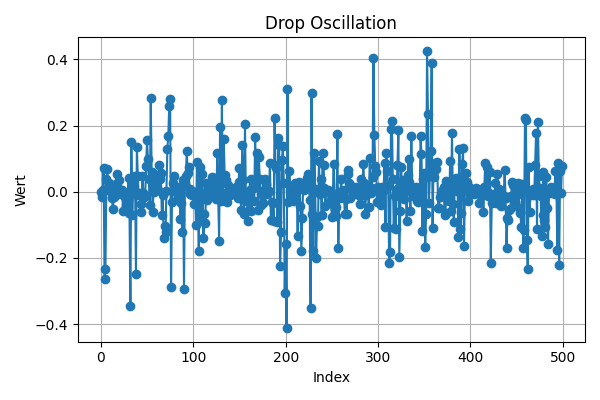
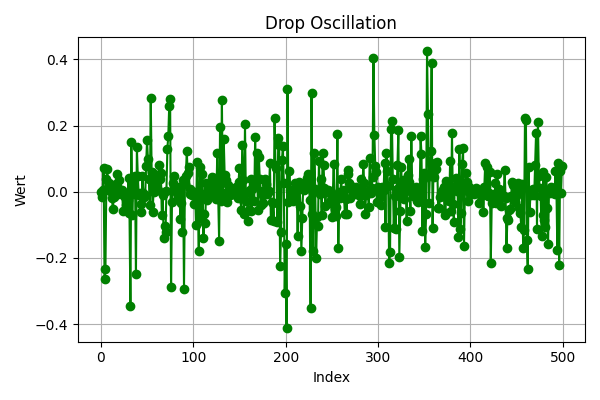
Update drop oscillation visualization: change sample step to 5, adjust plot color to green, and enhance README.md description

Changed region(s): [[0.15, 0.12, 0.96, 0.84]]

diff --git a/visualisierung/visualisierung.py b/visualisierung/visualisierung.py
@@ -41,7 +41,7 @@ os.makedirs(png_dir, exist_ok=True)
 png_path = os.path.join(png_dir, 'drop_oscillation.png')
 
 plt.figure(figsize=(6, 4))
-plt.plot(range(len(drop_values)), drop_values, marker='o', linestyle='-')
+plt.plot(range(len(drop_values)), drop_values, marker='o', linestyle='-', color='green')
 plt.title("Drop Oscillation")
 plt.xlabel("Index")
 plt.ylabel("Wert")
@@ -52,7 +52,7 @@ plt.close()
 print(f"PNG-Datei gespeichert: {png_path}")
 
 # 9. QuickChart-URL zusammenbauen (sampling, um URL-Länge zu begrenzen)
-sample_step = 1
+sample_step = 5
 qc_labels = list(range(0, len(drop_values), sample_step))
 qc_data = drop_values[::sample_step]
 
@@ -100,7 +100,7 @@ md_lines = [
     "_Topic: iot1/teaching_factory/drop_oscillation_\n\n",
     "## Lokale PNG-Datei\n\n",
     f"![Drop Oscillation PNG](https://github.com/oubi-aed/AUT_IOT/blob/main/reports/plots/drop_oscillation.png)\n\n",
-    "## QuickChart-Embed (statische Grafik von quickchart.io)\n\n",
+    "## QuickChart-Embed (statische Grafik von quickchart.io mit Sample Step = 5)\n\n",
     f"![Drop Oscillation QuickChart]({quickchart_url})\n"
 ]
 

diff --git a/README.md b/README.md
@@ -6,6 +6,6 @@ _Topic: iot1/teaching_factory/drop_oscillation_
 
 ![Drop Oscillation PNG](https://github.com/oubi-aed/AUT_IOT/blob/main/reports/plots/drop_oscillation.png)
 
-## QuickChart-Embed (statische Grafik von quickchart.io)
+## QuickChart-Embed (statische Grafik von quickchart.io mit Sample Step = 5)
 
-![Drop Oscillation QuickChart](https://quickchart.io/chart?c=%7B%22type%22%3A%22line%22%2C%22data%22%3A%7B%22labels%22%3A%5B0%2C1%2C2%2C3%2C4%2C5%2C6%2C7%2C8%2C9%2C10%2C11%2C12%2C13%2C14%2C15%2C16%2C17%2C18%2C19%2C20%2C21%2C22%2C23%2C24%2C25%2C26%2C27%2C28%2C29%2C30%2C31%2C32%2C33%2C34%2C35%2C36%2C37%2C38%2C39%2C40%2C41%2C42%2C43%2C44%2C45%2C46%2C47%2C48%2C49%2C50%2C51%2C52%2C53%2C54%2C55%2C56%2C57%2C58%2C59%2C60%2C61%2C62%2C63%2C64%2C65%2C66%2C67%2C68%2C69%2C70%2C71%2C72%2C73%2C74%2C75%2C76%2C77%2C78%2C79%2C80%2C81%2C82%2C83%2C84%2C85%2C86%2C87%2C88%2C89%2C90%2C91%2C92%2C93%2C94%2C95%2C96%2C97%2C98%2C99%2C100%2C101%2C102%2C103%2C104%2C105%2C106%2C107%2C108%2C109%2C110%2C111%2C112%2C113%2C114%2C115%2C116%2C117%2C118%2C119%2C120%2C121%2C122%2C123%2C124%2C125%2C126%2C127%2C128%2C129%2C130%2C131%2C132%2C133%2C134%2C135%2C136%2C137%2C138%2C139%2C140%2C141%2C142%2C143%2C144%2C145%2C146%2C147%2C148%2C149%2C150%2C151%2C152%2C153%2C154%2C155%2C156%2C157%2C158%2C159%2C160%2C161%2C162%2C163%2C164%2C165%2C166%2C167%2C168%2C169%2C170%2C171%2C172%2C173%2C174%2C175%2C176%2C177%2C178%2C179%2C180%2C181%2C182%2C183%2C184%2C185%2C186%2C187%2C188%2C189%2C190%2C191%2C192%2C193%2C194%2C195%2C196%2C197%2C198%2C199%2C200%2C201%2C202%2C203%2C204%2C205%2C206%2C207%2C208%2C209%2C210%2C211%2C212%2C213%2C214%2C215%2C216%2C217%2C218%2C219%2C220%2C221%2C222%2C223%2C224%2C225%2C226%2C227%2C228%2C229%2C230%2C231%2C232%2C233%2C234%2C235%2C236%2C237%2C238%2C239%2C240%2C241%2C242%2C243%2C244%2C245%2C246%2C247%2C248%2C249%2C250%2C251%2C252%2C253%2C254%2C255%2C256%2C257%2C258%2C259%2C260%2C261%2C262%2C263%2C264%2C265%2C266%2C267%2C268%2C269%2C270%2C271%2C272%2C273%2C274%2C275%2C276%2C277%2C278%2C279%2C280%2C281%2C282%2C283%2C284%2C285%2C286%2C287%2C288%2C289%2C290%2C291%2C292%2C293%2C294%2C295%2C296%2C297%2C298%2C299%2C300%2C301%2C302%2C303%2C304%2C305%2C306%2C307%2C308%2C309%2C310%2C311%2C312%2C313%2C314%2C315%2C316%2C317%2C318%2C319%2C320%2C321%2C322%2C323%2C324%2C325%2C326%2C327%2C328%2C329%2C330%2C331%2C332%2C333%2C334%2C335%2C336%2C337%2C338%2C339%2C340%2C341%2C342%2C343%2C344%2C345%2C346%2C347%2C348%2C349%2C350%2C351%2C352%2C353%2C354%2C355%2C356%2C357%2C358%2C359%2C360%2C361%2C362%2C363%2C364%2C365%2C366%2C367%2C368%2C369%2C370%2C371%2C372%2C373%2C374%2C375%2C376%2C377%2C378%2C379%2C380%2C381%2C382%2C383%2C384%2C385%2C386%2C387%2C388%2C389%2C390%2C391%2C392%2C393%2C394%2C395%2C396%2C397%2C398%2C399%2C400%2C401%2C402%2C403%2C404%2C405%2C406%2C407%2C408%2C409%2C410%2C411%2C412%2C413%2C414%2C415%2C416%2C417%2C418%2C419%2C420%2C421%2C422%2C423%2C424%2C425%2C426%2C427%2C428%2C429%2C430%2C431%2C432%2C433%2C434%2C435%2C436%2C437%2C438%2C439%2C440%2C441%2C442%2C443%2C444%2C445%2C446%2C447%2C448%2C449%2C450%2C451%2C452%2C453%2C454%2C455%2C456%2C457%2C458%2C459%2C460%2C461%2C462%2C463%2C464%2C465%2C466%2C467%2C468%2C469%2C470%2C471%2C472%2C473%2C474%2C475%2C476%2C477%2C478%2C479%2C480%2C481%2C482%2C483%2C484%2C485%2C486%2C487%2C488%2C489%2C490%2C491%2C492%2C493%2C494%2C495%2C496%2C497%2C498%2C499%5D%2C%22datasets%22%3A%5B%7B%22label%22%3A%22Drop%20Oscillation%20%28Sampled%20every%2010th%29%22%2C%22data%22%3A%5B-0.0%2C-0.0155132089%2C0.0042205726%2C0.0725336019%2C-0.2644276961%2C-0.2331403242%2C0.0378564211%2C0.0683021036%2C0.0126182278%2C0.0252328983%2C0.0033464714%2C0.006271765%2C-0.019256085%2C-0.05345763%2C-0.0154634471%2C0.0212959918%2C0.0222878235%2C0.0549119862%2C0.0180486656%2C-0.0063707933%2C0.0349003702%2C0.0007394186%2C0.0005602404%2C0.006435499%2C-0.0574101363%2C-0.012444466%2C-0.0037044934%2C-0.0406035928%2C-0.040751769%2C-0.0261181108%2C0.0403105655%2C-0.0632508741%2C-0.3456982651%2C0.1505048999%2C-0.0702048673%2C0.0277953416%2C-0.0060229108%2C0.0489857509%2C-0.2496298763%2C0.134138124%2C0.0478556928%2C-0.0101247401%2C-0.0031224436%2C-0.0621877513%2C-0.0384129438%2C0.0468848496%2C-0.0033948776%2C-0.0156651455%2C-0.0098499052%2C0.0787904354%2C0.1559865141%2C0.0987733807%2C0.0385891126%2C-0.0403210196%2C0.2839362409%2C0.0598104567%2C-0.0596456303%2C-0.0008158692%2C0.0530552091%2C0.0024831962%2C0.0133962734%2C0.0346823968%2C0.0039278025%2C0.0797134226%2C0.0377744113%2C0.0552260642%2C-0.0697532443%2C-0.0095664302%2C-0.1394535925%2C-0.1028049948%2C-0.1220642589%2C0.0019033127%2C0.1294311807%2C0.1694706393%2C0.2598783128%2C0.2789382051%2C-0.2862931872%2C-0.032330945%2C0.0269652969%2C0.0485605402%2C0.0091650643%2C0.0018052535%2C-0.0045675358%2C-0.0171367339%2C-6.9791e-06%2C0.0154805082%2C-0.0834179912%2C-0.0343073995%2C-0.1227849104%2C0.0351078712%2C-0.293163869%2C0.0225592592%2C0.0485436244%2C0.1219993956%2C0.0571064052%2C0.0736877237%2C0.009777024%2C-0.0078986106%2C-0.0023901871%2C-0.0097508002%2C-0.0027575478%2C-0.037772156%2C0.0006719246%2C-0.1009126529%2C0.0900680994%2C-0.0358329735%2C-0.1775695623%2C0.0734265952%2C-0.0787528475%2C-0.00561162%2C0.0540271966%2C-0.1384322269%2C-0.0657242693%2C-0.0953656028%2C0.0266823741%2C-0.0263832294%2C0.0075300407%2C0.0165376774%2C0.0051592359%2C-0.0079989227%2C0.0442778041%2C0.0382862715%2C0.0407354678%2C0.0255494716%2C0.0002711148%2C-0.0222324657%2C0.116643846%2C-0.0108399721%2C-0.1472843761%2C0.194483585%2C-0.0283889858%2C0.2785719167%2C-0.0065458438%2C0.1581535175%2C0.0509419078%2C0.034763945%2C-0.0305061326%2C-9.97324e-05%2C0.0209299575%2C-0.0008864066%2C-0.0085024121%2C0.004737765%2C0.0072172742%2C-0.006022412%2C-0.001902675%2C-0.0078467524%2C0.0158216506%2C-0.0042902652%2C-0.0178042499%2C0.0308209219%2C0.070852562%2C-0.0200283286%2C-0.0564247683%2C0.14118911%2C0.0340339785%2C-0.0680346815%2C0.2040996944%2C-0.026590627%2C-0.0021970362%2C-0.0878238627%2C-0.0549467966%2C0.0058634938%2C0.0393616854%2C-0.0580686897%2C0.0076708107%2C0.0205626812%2C-0.0267614231%2C0.164423725%2C0.0186511546%2C0.1166988947%2C-0.0544973713%2C0.104147187%2C0.0387942633%2C-0.0411289343%2C0.0008663033%2C-0.0104816937%2C-0.0342339322%2C0.0016157908%2C0.0388598543%2C0.0235653886%2C-0.0058009285%2C0.0003724709%2C0.0029437153%2C0.0874847827%2C-0.0849568536%2C-0.0319637%2C-0.0338447826%2C-0.086961178%2C0.2232169066%2C0.0813513607%2C0.0712602719%2C-0.0913258181%2C0.1624094102%2C0.1416675376%2C-0.2230531082%2C-0.1228777586%2C0.0957321954%2C0.1369959859%2C0.0277884381%2C-0.306561189%2C-0.1588113796%2C-0.4111817159%2C0.311629278%2C-0.0315626367%2C0.0630486134%2C0.0049988376%2C-0.0095511971%2C-0.0144022654%2C-0.0285874526%2C-0.0143151923%2C0.0255860653%2C0.0029205892%2C0.0093652107%2C-0.1340709711%2C0.028484405%2C0.0160102042%2C-0.0415617539%2C-0.1780112103%2C-0.0783951233%2C0.0192227987%2C0.0056804617%2C0.0095396843%2C0.0274591776%2C0.0405226334%2C0.0535171433%2C0.0376116582%2C-0.024963877%2C-0.3504395442%2C0.2968711073%2C-0.0682898919%2C-0.1797010571%2C0.1177079522%2C0.0085302074%2C-0.199787263%2C-0.0759012167%2C-0.1029852681%2C0.0925740386%2C-0.0065192146%2C0.0398528471%2C-0.071472681%2C0.1177015849%2C0.0812130775%2C0.0112779862%2C-0.0433525556%2C0.0063585391%2C0.0006615557%2C0.0049033879%2C-0.0345785862%2C0.0011940992%2C-0.0247762459%2C-0.0764082238%2C-0.0135735292%2C0.0826757494%2C-0.0513838209%2C-0.0739330086%2C-0.0463604341%2C0.1730820344%2C-0.1706565455%2C-0.0020666522%2C-0.0199163821%2C0.0371987217%2C-0.0015900981%2C-0.0045033437%2C0.0063081323%2C-0.0680718095%2C-0.02273856%2C-0.0665563902%2C0.0529766876%2C0.065591538%2C0.0257925909%2C-0.0192534865%2C0.0175556853%2C0.004963499%2C-0.0001416505%2C-0.0077878341%2C0.0083198408%2C0.0129455435%2C-0.0045239896%2C-0.0078322839%2C-0.0109375683%2C-0.0372090129%2C-0.011915881%2C0.0387875266%2C-0.0041669809%2C0.0834718985%2C0.0278498543%2C-0.0671178957%2C-0.0103577688%2C-0.0018367297%2C0.0030383872%2C-0.0466674873%2C0.1031665243%2C-0.0022749917%2C0.0105909704%2C0.0431819282%2C0.4044831948%2C0.1725731301%2C0.0766209678%2C0.0605647706%2C-0.0305843566%2C0.0141423674%2C-4.11254e-05%2C-0.0147742203%2C-0.0405933193%2C0.0151791255%2C0.0060822244%2C0.0067671522%2C0.0862020602%2C-0.106715592%2C0.1157857115%2C0.0622325426%2C0.0165214656%2C-0.2155746428%2C-0.1806755993%2C0.1908930039%2C0.2129277479%2C0.0378838197%2C-0.1080319694%2C-0.0141098445%2C-0.111422315%2C0.0074288106%2C0.0805636024%2C0.1870907922%2C-0.1976547529%2C-0.0574229241%2C0.073397265%2C-0.0137387053%2C0.0357671556%2C-0.0226459695%2C0.0102872115%2C0.0036611612%2C-0.0897533074%2C0.0513477033%2C0.1000657147%2C0.030832691%2C-0.0587495496%2C0.1684848498%2C0.0093606499%2C-0.0127268798%2C0.0024351748%2C0.0127931289%2C0.0129227178%2C-0.0288041135%2C-0.0323708129%2C-0.0017764472%2C-0.0211690836%2C0.1679267969%2C0.1139530718%2C-0.1178763863%2C0.0383540514%2C0.0566382442%2C-0.1660220179%2C-0.0686628586%2C0.4246645204%2C0.2337138434%2C-0.0349510112%2C0.0479237219%2C0.1227349463%2C0.3875299266%2C-0.1095628608%2C0.0720130212%2C0.0439548334%2C0.0865804841%2C0.0673913827%2C0.0893195883%2C-0.0505599573%2C-0.0504052889%2C-0.0155246853%2C-0.0048378071%2C0.0033254227%2C0.0054285232%2C0.0139225258%2C-0.0689630051%2C-0.0648528748%2C0.0313585405%2C-0.0108247407%2C-0.0048872186%2C-0.0288409701%2C0.0936777793%2C-0.0568084496%2C0.1767141662%2C-0.0360218327%2C-0.0907647364%2C0.0188528286%2C0.0414627487%2C0.0028518781%2C0.0191465008%2C-0.1373560151%2C0.1298180787%2C-0.1114101884%2C-0.0656006574%2C0.0826353916%2C0.1310402413%2C-0.1644386371%2C0.0053463603%2C0.0562096945%2C0.029153884%2C-0.0281913078%2C0.0158735594%2C0.009270289%2C-0.0054157197%2C0.0006560801%2C-0.0046576125%2C0.0011986474%2C-0.007258919%2C-0.0015119575%2C0.0103194258%2C0.0064584232%2C0.0008173663%2C-0.034129688%2C-0.0060173265%2C-0.0066996394%2C-0.000379278%2C-0.0110077647%2C-0.0605432868%2C0.0137324899%2C0.0881527758%2C0.0157808739%2C0.0741993774%2C-0.0132394599%2C-0.0039055015%2C0.0595237693%2C-0.2166079498%2C-0.0353362679%2C-0.0255136097%2C-0.0080266817%2C-0.0115923343%2C0.026962365%2C-0.0325746997%2C0.0539871323%2C-0.001667589%2C0.0083969436%2C-0.0091034126%2C-0.0423552558%2C-0.0157927972%2C-0.0114483114%2C-0.0122035145%2C0.0651012296%2C-0.0187987521%2C-0.1686247182%2C-0.0789240184%2C-0.085264653%2C-0.0536856594%2C-0.0518827704%2C-0.0137877283%2C0.0306289912%2C0.0192057331%2C-0.0232765732%2C-0.0298443246%2C-0.0141833029%2C-0.0002700718%2C0.0268580249%2C0.0011986675%2C-0.0495049958%2C-0.0642038979%2C-0.1070450604%2C0.0227856534%2C-0.1702767213%2C-0.1167904211%2C0.2233865514%2C0.2165874271%2C-0.1465394921%2C-0.2320736643%2C0.0756012188%2C-0.0625551891%2C-0.0013171436%2C-0.0103988327%2C-0.0006249474%2C0.0073311525%2C-0.0089380513%2C0.0809758397%2C0.1779553599%2C-0.1131436796%2C0.2122013485%2C0.0483390893%2C0.0102361765%2C-0.014285901%2C-0.132464776%2C-0.0702370977%2C0.0590111233%2C-0.0855266829%2C-0.1051817636%2C0.0450802903%2C-0.0488790607%2C-0.1576528951%2C0.0046269868%2C-0.0044425257%2C0.0155874294%2C0.004068063%2C-0.0051768536%2C0.0007092284%2C-0.0069414098%2C0.0639622863%2C0.0157974606%2C-0.1759975922%2C0.0871818407%2C-0.2208063939%2C0.0633670003%2C-0.0042146864%2C0.0764369632%5D%2C%22borderColor%22%3A%22green%22%2C%22fill%22%3Afalse%7D%5D%7D%2C%22options%22%3A%7B%22title%22%3A%7B%22display%22%3Atrue%2C%22text%22%3A%22Drop%20Oscillation%20%28QuickChart%2C%20gesampelt%29%22%7D%2C%22scales%22%3A%7B%22xAxes%22%3A%5B%7B%22scaleLabel%22%3A%7B%22display%22%3Atrue%2C%22labelString%22%3A%22Index%22%7D%7D%5D%2C%22yAxes%22%3A%5B%7B%22scaleLabel%22%3A%7B%22display%22%3Atrue%2C%22labelString%22%3A%22Wert%22%7D%7D%5D%7D%7D%7D)
+![Drop Oscillation QuickChart](https://quickchart.io/chart?c=%7B%22type%22%3A%22line%22%2C%22data%22%3A%7B%22labels%22%3A%5B0%2C5%2C10%2C15%2C20%2C25%2C30%2C35%2C40%2C45%2C50%2C55%2C60%2C65%2C70%2C75%2C80%2C85%2C90%2C95%2C100%2C105%2C110%2C115%2C120%2C125%2C130%2C135%2C140%2C145%2C150%2C155%2C160%2C165%2C170%2C175%2C180%2C185%2C190%2C195%2C200%2C205%2C210%2C215%2C220%2C225%2C230%2C235%2C240%2C245%2C250%2C255%2C260%2C265%2C270%2C275%2C280%2C285%2C290%2C295%2C300%2C305%2C310%2C315%2C320%2C325%2C330%2C335%2C340%2C345%2C350%2C355%2C360%2C365%2C370%2C375%2C380%2C385%2C390%2C395%2C400%2C405%2C410%2C415%2C420%2C425%2C430%2C435%2C440%2C445%2C450%2C455%2C460%2C465%2C470%2C475%2C480%2C485%2C490%2C495%5D%2C%22datasets%22%3A%5B%7B%22label%22%3A%22Drop%20Oscillation%20%28Sampled%20every%2010th%29%22%2C%22data%22%3A%5B-0.0%2C-0.2331403242%2C0.0033464714%2C0.0212959918%2C0.0349003702%2C-0.012444466%2C0.0403105655%2C0.0277953416%2C0.0478556928%2C0.0468848496%2C0.1559865141%2C0.0598104567%2C0.0133962734%2C0.0552260642%2C-0.1220642589%2C0.2789382051%2C0.0091650643%2C0.0154805082%2C-0.293163869%2C0.0736877237%2C-0.0027575478%2C-0.0358329735%2C0.0540271966%2C-0.0263832294%2C0.0442778041%2C-0.0222324657%2C-0.0283889858%2C0.034763945%2C-0.0085024121%2C-0.0078467524%2C0.070852562%2C-0.0680346815%2C-0.0549467966%2C0.0205626812%2C-0.0544973713%2C-0.0104816937%2C-0.0058009285%2C-0.0319637%2C0.0712602719%2C-0.1228777586%2C-0.1588113796%2C0.0049988376%2C0.0255860653%2C0.0160102042%2C0.0056804617%2C0.0376116582%2C-0.1797010571%2C-0.1029852681%2C0.1177015849%2C0.0006615557%2C-0.0764082238%2C-0.0463604341%2C0.0371987217%2C-0.02273856%2C-0.0192534865%2C0.0083198408%2C-0.0372090129%2C0.0278498543%2C-0.0466674873%2C0.4044831948%2C0.0141423674%2C0.0060822244%2C0.0622325426%2C0.2129277479%2C0.0074288106%2C0.073397265%2C0.0036611612%2C-0.0587495496%2C0.0127931289%2C-0.0211690836%2C0.0566382442%2C-0.0349510112%2C0.0720130212%2C-0.0505599573%2C0.0054285232%2C-0.0108247407%2C0.1767141662%2C0.0028518781%2C-0.0656006574%2C0.0562096945%2C-0.0054157197%2C-0.0015119575%2C-0.0060173265%2C0.0137324899%2C-0.0039055015%2C-0.0080266817%2C-0.001667589%2C-0.0114483114%2C-0.0789240184%2C0.0306289912%2C-0.0002700718%2C-0.1070450604%2C0.2165874271%2C-0.0013171436%2C0.0809758397%2C0.0102361765%2C-0.0855266829%2C0.0046269868%2C0.0007092284%2C0.0871818407%5D%2C%22borderColor%22%3A%22green%22%2C%22fill%22%3Afalse%7D%5D%7D%2C%22options%22%3A%7B%22title%22%3A%7B%22display%22%3Atrue%2C%22text%22%3A%22Drop%20Oscillation%20%28QuickChart%2C%20gesampelt%29%22%7D%2C%22scales%22%3A%7B%22xAxes%22%3A%5B%7B%22scaleLabel%22%3A%7B%22display%22%3Atrue%2C%22labelString%22%3A%22Index%22%7D%7D%5D%2C%22yAxes%22%3A%5B%7B%22scaleLabel%22%3A%7B%22display%22%3Atrue%2C%22labelString%22%3A%22Wert%22%7D%7D%5D%7D%7D%7D)
